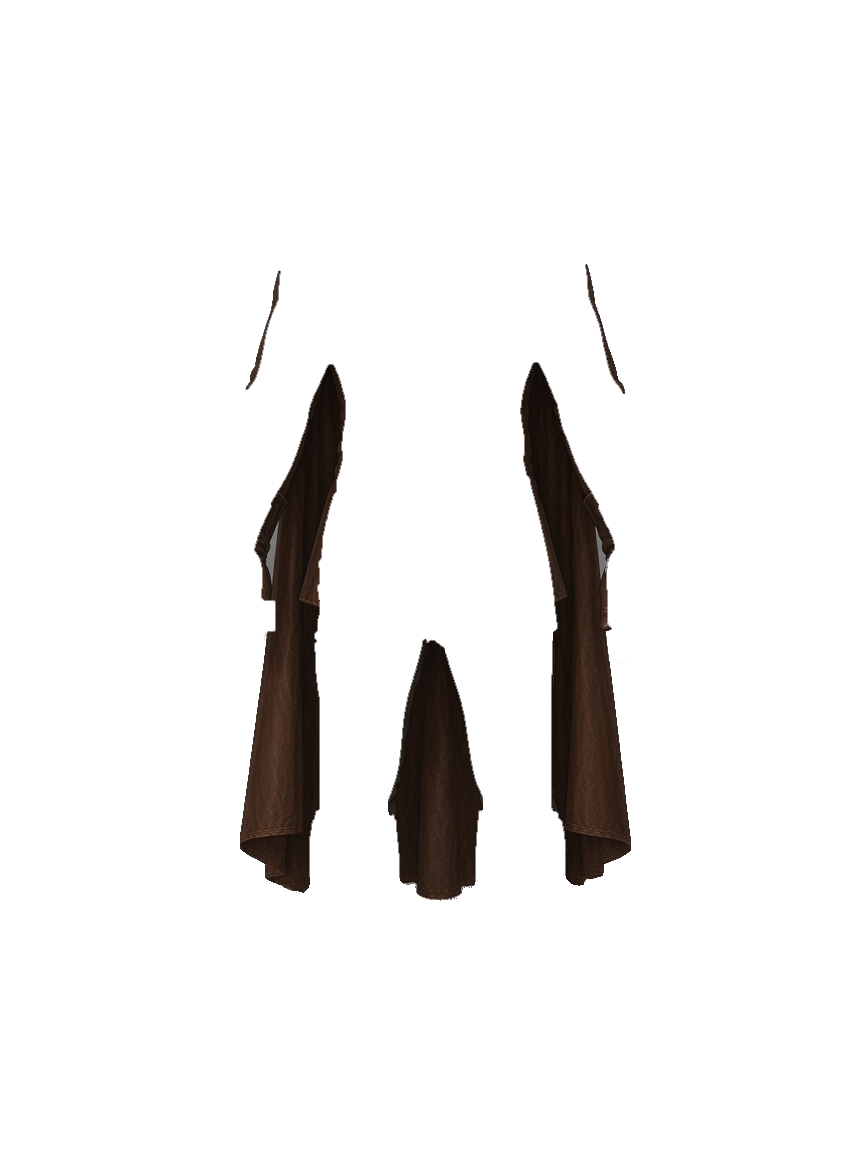
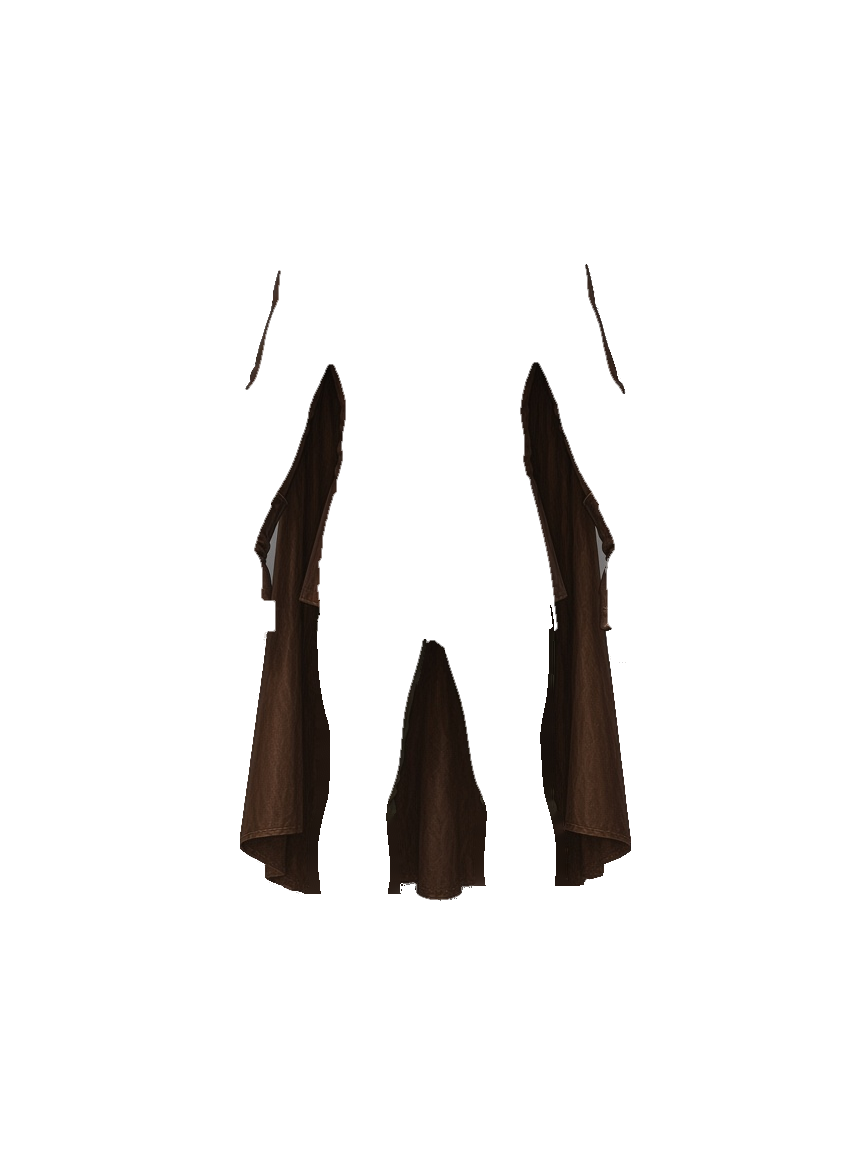
Leather tester: refill common/masterwork cloak holes beside the legs (hidden by own pants/boots) so no backdrop shows at the knees with narrower pants; LAYER_V bump

diff --git a/dolltest/v5/layers.html b/dolltest/v5/layers.html
@@ -129,7 +129,7 @@
     let face = 1;      // 0 = original baked head, 1-10 = new head layers
     let hair = 1;      // 0 = none, 1-10
     // Bump this whenever layer PNGs change so iOS Safari does not keep stale tiles.
-    const LAYER_V = "20261117-pants-full4";
+    const LAYER_V = "20261117-pants-full5";
     const ONBASE = ["common", "masterwork"];  // tiers cut from Art's on-base paintings
     // Tiers with hidden pants/boots underlaps (drawn only when both are on) so mixing
     // with another tier's boots or pants does not leave a strip of bare leg.
